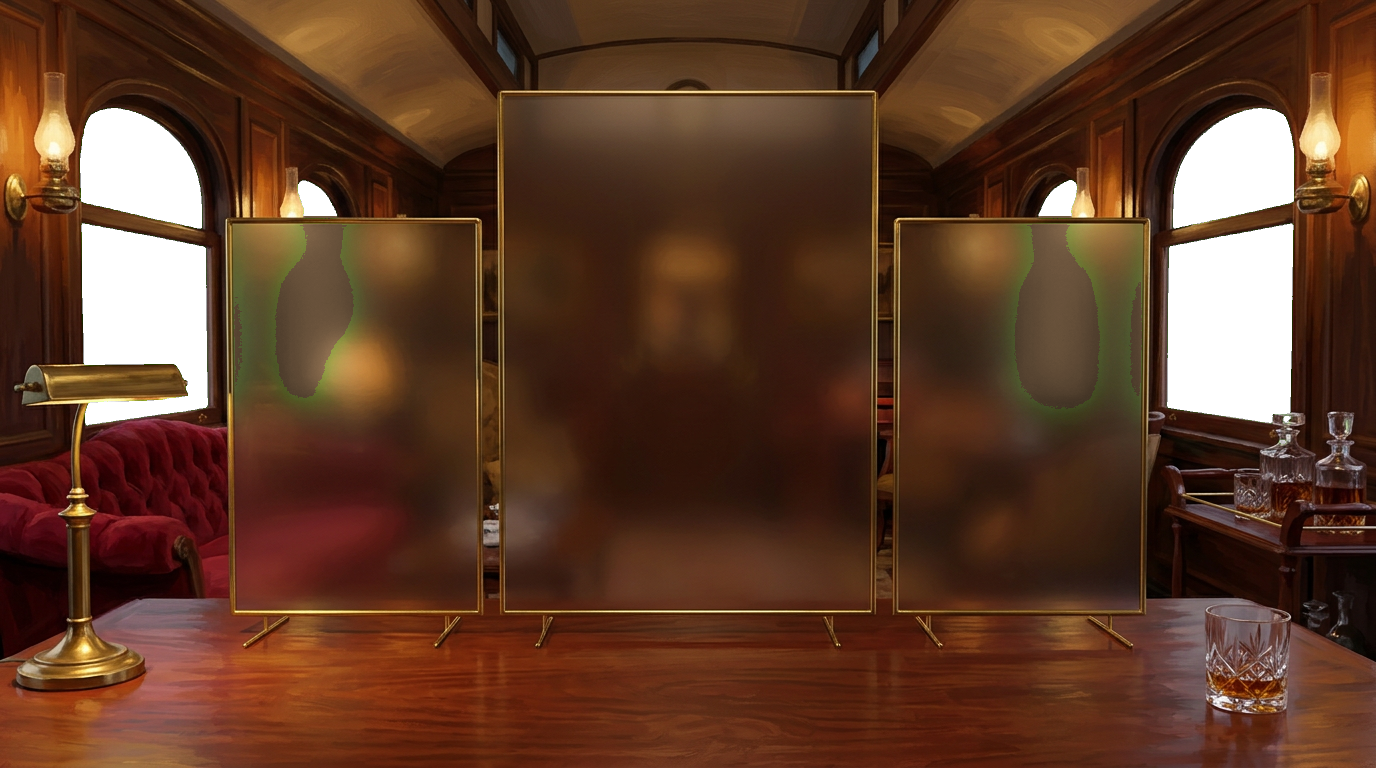
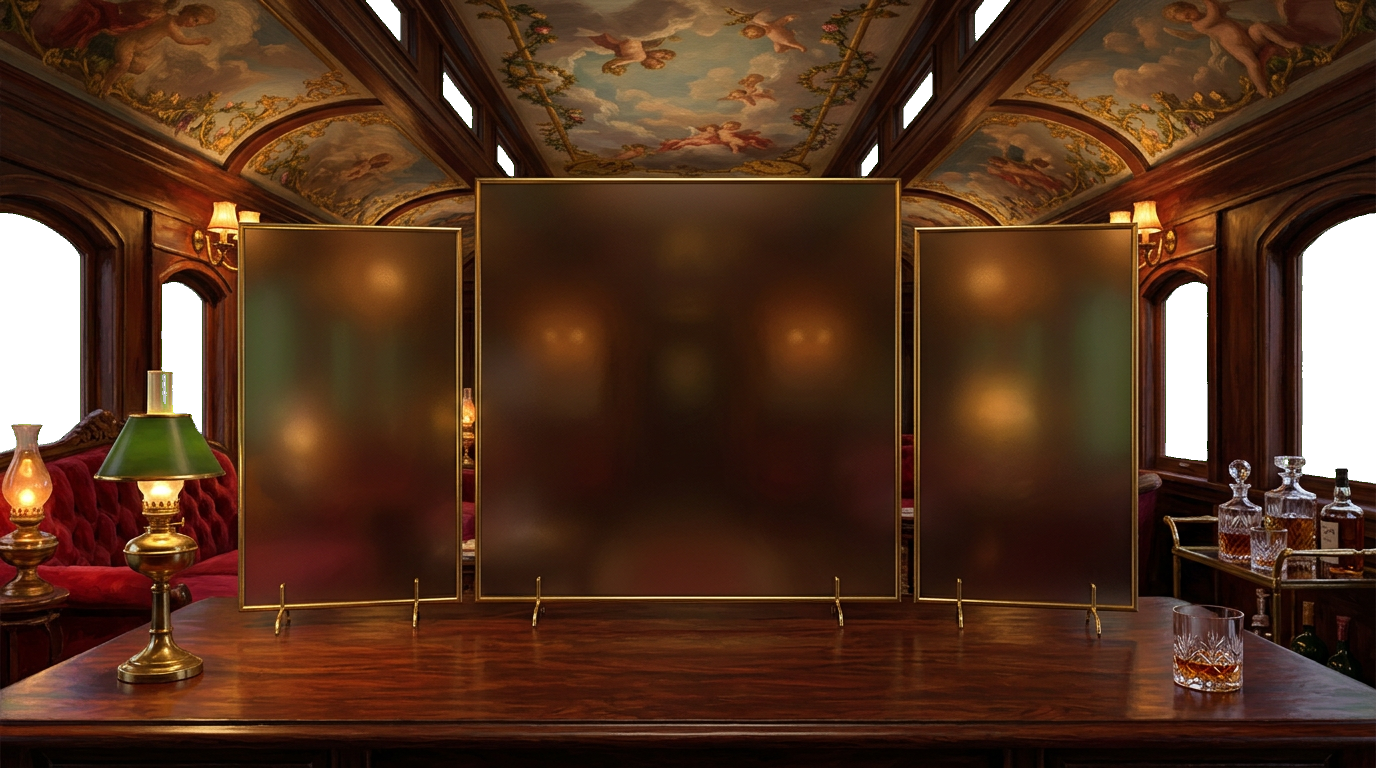
Office car: cherub-ceiling room, text laid on the painted panels, whole scene jolts together
Claude-Session: https://claude.ai/code/session_01F5UTtjsrcpMbk4dQhSkhZL

diff --git a/labs/pyle-office-preview.html b/labs/pyle-office-preview.html
@@ -5,15 +5,16 @@
 <meta name="viewport" content="width=device-width, initial-scale=1">
 <title>Pyle · Office car preview</title>
 <style>
-:root{--brass:#d4af5f;--ink:#f3e9d6;--dim:#b9a98c;--tint:.55;--blur:14px;--tilt:10deg}
+:root{--brass:#d9b56a;--ink:#f6ecd8;--dim:#c2b193;--tint:.38}
 *{box-sizing:border-box;margin:0;padding:0}
-html,body{height:100%;background:#120b08;color:var(--ink);font-family:"Iowan Old Style","Palatino Linotype",Palatino,Georgia,serif;overflow:hidden}
-#stage{position:relative;width:100vw;height:100vh;overflow:hidden}
+html,body{height:100%;background:#0b0705;color:var(--ink);font-family:"Iowan Old Style","Palatino Linotype",Palatino,Georgia,serif;overflow:hidden}
+#wrap{position:relative;width:100vw;height:100vh;display:grid;place-items:center}
+#stage{position:relative;aspect-ratio:1376/768;width:min(100vw,calc(100vh * 1376 / 768));container-type:inline-size;overflow:hidden}
 #world{position:absolute;inset:0;transform-origin:50% 60%}
 #world.bump{animation:bump .45s ease-out}
 #world.bump2{animation:bump2 .6s ease-out}
-@keyframes bump{0%{transform:translateY(0)}25%{transform:translateY(-3px) rotate(.12deg)}55%{transform:translateY(2px)}100%{transform:translateY(0)}}
-@keyframes bump2{0%{transform:translateY(0)}20%{transform:translateY(2px) rotate(-.1deg)}50%{transform:translateY(-2px)}80%{transform:translateY(1px)}100%{transform:translateY(0)}}
+@keyframes bump{0%{transform:translateY(0)}25%{transform:translateY(-.4cqw) rotate(.12deg)}55%{transform:translateY(.25cqw)}100%{transform:translateY(0)}}
+@keyframes bump2{0%{transform:translateY(0)}20%{transform:translateY(.25cqw) rotate(-.1deg)}50%{transform:translateY(-.3cqw)}80%{transform:translateY(.12cqw)}100%{transform:translateY(0)}}
 #sky{position:absolute;inset:0;background:linear-gradient(#1a1230 0%,#4a2a3c 35%,#b4562e 58%,#e8a157 70%,#3b2416 100%)}
 #sky.night{background:linear-gradient(#05060f 0%,#0d1230 45%,#1c2a4d 70%,#0a0a12 100%)}
 #sky.day{background:linear-gradient(#5f8fc9 0%,#a9c8e8 50%,#e9d8b4 72%,#8d7a52 100%)}
@@ -22,36 +23,26 @@ html,body{height:100%;background:#120b08;color:var(--ink);font-family:"Iowan Old
 #mid{animation:slide 32s linear infinite}
 #near{animation:slide 14s linear infinite}
 @keyframes slide{from{transform:translateX(0)}to{transform:translateX(-25%)}}
-#room{position:absolute;inset:0;background:url("img/pyle/office-car.webp") center/cover no-repeat}
-#desk{position:absolute;left:0;right:0;top:0;bottom:0;pointer-events:none}
-.panel{position:absolute;background:rgba(26,16,10,var(--tint));backdrop-filter:blur(var(--blur)) saturate(.9);-webkit-backdrop-filter:blur(var(--blur)) saturate(.9);border:1px solid rgba(212,175,95,.65);border-radius:5px;box-shadow:0 0 0 3px rgba(60,40,18,.5),0 18px 40px rgba(0,0,0,.45),inset 0 0 40px rgba(255,200,120,.06);padding:18px 22px;color:var(--ink);transform-style:preserve-3d}
-.panel{border-radius:3px;border-width:2px;box-shadow:0 0 0 1px rgba(90,62,24,.7),0 22px 30px -10px rgba(0,0,0,.6),inset 0 0 40px rgba(255,200,120,.06)}
-.panel::before,.panel::after{content:"";position:absolute;bottom:-15px;width:2px;height:15px;background:linear-gradient(#f0d48a,#a67c35);box-shadow:1px 0 2px rgba(0,0,0,.5)}
-.panel::before{left:14%}
-.panel::after{right:14%}
-.foot{position:absolute;bottom:-17px;height:2.5px;background:linear-gradient(90deg,rgba(240,212,138,0),#f0d48a 25%,#f0d48a 75%,rgba(240,212,138,0));box-shadow:0 2px 3px rgba(0,0,0,.6)}
-.foot.l{left:6%;width:16%}.foot.r{right:6%;width:16%}
-.refl{position:absolute;left:3%;right:3%;top:100%;height:16%;margin-top:16px;background:linear-gradient(rgba(214,180,120,.16),rgba(214,180,120,0));filter:blur(6px);transform:scaleY(-1);pointer-events:none}
-#main{left:30%;width:40%;top:11%;height:58%}
-#left{left:5.5%;width:22%;top:21%;height:48%;transform:perspective(1400px) rotateY(var(--tilt));transform-origin:right bottom}
-#right{right:5.5%;width:22%;top:21%;height:48%;transform:perspective(1400px) rotateY(calc(var(--tilt) * -1));transform-origin:left bottom}
-.panel>.hd{font-family:ui-monospace,Menlo,monospace;font-size:11px;letter-spacing:.2em;text-transform:uppercase;color:var(--brass);border-bottom:1px solid rgba(212,175,95,.35);padding-bottom:8px;margin-bottom:12px;display:flex;justify-content:space-between}
-.panel .code{font-family:ui-monospace,Menlo,monospace;font-size:15.5px;line-height:1.6;white-space:pre;color:#f7efe0}
-.k{color:#e9b25c}.s{color:#9fd0a2}.c{color:#8f8470;font-style:italic}.n{color:#8fc4e8}
-.brief{font-size:15px;line-height:1.55;color:var(--ink)}
+#room{position:absolute;inset:0;background:url("img/pyle/office-car.webp") center/100% 100% no-repeat}
+.screen{position:absolute;background:rgba(22,13,8,var(--tint));padding:1.3cqw 1.5cqw;color:var(--ink);overflow:hidden}
+#left{left:17.4%;top:29.5%;width:16.3%;height:49.8%}
+#main{left:34.7%;top:23%;width:30.8%;height:55.4%}
+#right{left:66.5%;top:29.5%;width:16.3%;height:49.8%}
+.hd{font-family:ui-monospace,Menlo,monospace;font-size:.78cqw;letter-spacing:.2em;text-transform:uppercase;color:var(--brass);border-bottom:1px solid rgba(217,181,106,.4);padding-bottom:.5cqw;margin-bottom:.9cqw;display:flex;justify-content:space-between}
+.code{font-family:ui-monospace,Menlo,monospace;font-size:1.02cqw;line-height:1.6;white-space:pre;color:#faf2e3;text-shadow:0 1px 2px rgba(0,0,0,.6)}
+.k{color:#eab862}.s{color:#a8d8a9}.c{color:#9a8f7a;font-style:italic}.n{color:#9ccbee}
+.brief{font-size:1.02cqw;line-height:1.55;text-shadow:0 1px 2px rgba(0,0,0,.6)}
 .brief b{color:var(--brass);font-weight:600}
-.aid{font-family:ui-monospace,Menlo,monospace;font-size:12.5px;line-height:1.7;color:var(--dim);white-space:pre}
-#ctl{position:absolute;left:50%;bottom:14px;transform:translateX(-50%);display:flex;gap:14px;align-items:center;background:rgba(14,8,5,.7);border:1px solid rgba(212,175,95,.4);border-radius:6px;padding:8px 14px;font-family:ui-monospace,Menlo,monospace;font-size:11px;letter-spacing:.14em;text-transform:uppercase;color:var(--brass);z-index:5}
-#ctl label{display:flex;gap:8px;align-items:center}
-#ctl input[type=range]{width:90px;accent-color:#d4af5f}
-#ctl button{background:none;border:1px solid rgba(212,175,95,.5);color:var(--brass);padding:4px 10px;border-radius:4px;font:inherit;cursor:pointer;letter-spacing:.14em}
-#ctl button.on{background:rgba(212,175,95,.18)}
-#ice{position:absolute;right:11.5%;top:46%;width:8%;height:14%;transform-origin:50% 100%}
-#ice.wig{animation:wig .7s ease-out}
-@keyframes wig{0%{transform:rotate(0)}20%{transform:rotate(-1.6deg)}45%{transform:rotate(1.2deg)}70%{transform:rotate(-.6deg)}100%{transform:rotate(0)}}
+.aid{font-family:ui-monospace,Menlo,monospace;font-size:.86cqw;line-height:1.7;color:var(--dim);white-space:pre;text-shadow:0 1px 2px rgba(0,0,0,.6)}
+#ctl{position:absolute;left:50%;bottom:1.2cqw;transform:translateX(-50%);display:flex;gap:1cqw;align-items:center;background:rgba(14,8,5,.75);border:1px solid rgba(217,181,106,.4);border-radius:5px;padding:.5cqw 1cqw;font-family:ui-monospace,Menlo,monospace;font-size:.75cqw;letter-spacing:.14em;text-transform:uppercase;color:var(--brass);z-index:5}
+#ctl label{display:flex;gap:.5cqw;align-items:center}
+#ctl input[type=range]{width:6cqw;accent-color:#d9b56a}
+#ctl button{background:none;border:1px solid rgba(217,181,106,.5);color:var(--brass);padding:.3cqw .7cqw;border-radius:4px;font:inherit;cursor:pointer;letter-spacing:.14em}
+#ctl button.on{background:rgba(217,181,106,.18)}
 </style>
 </head>
 <body>
+<div id="wrap">
 <div id="stage">
   <div id="world">
     <div id="sky"></div>
@@ -59,15 +50,12 @@ html,body{height:100%;background:#120b08;color:var(--ink);font-family:"Iowan Old
     <div class="land" id="mid"></div>
     <div class="land" id="near"></div>
     <div id="room"></div>
-    <div id="ice"></div>
-  </div>
-  <div id="desk">
-    <div class="panel" id="left"><i class="foot l"></i><i class="foot r"></i><div class="refl"></div>
+    <div class="screen" id="left">
       <div class="hd"><span>Brief</span><span>telegram 04</span></div>
       <div class="brief">The clerk needs a <b>menu board</b> for the dining car. Print the price of cake, add dinner at 30, then list every dish with its price.<br><br>When there is no coffee tonight, say so.</div>
     </div>
-    <div class="panel" id="main"><i class="foot l"></i><i class="foot r"></i><div class="refl"></div>
-      <div class="hd"><span>menu_board.py</span><span>office car · Pyle</span></div>
+    <div class="screen" id="main">
+      <div class="hd"><span>menu_board.py</span><span>office car</span></div>
       <div class="code"><span class="c">"""Menu board for the dining car."""</span>
 
 menu = {<span class="s">"tea"</span>: <span class="n">4</span>, <span class="s">"soup"</span>: <span class="n">9</span>, <span class="s">"cake"</span>: <span class="n">12</span>}
@@ -81,7 +69,7 @@ menu[<span class="s">"dinner"</span>] = <span class="n">30</span>
 <span class="k">if</span> <span class="s">"coffee"</span> <span class="k">not in</span> menu:
     <span class="k">print</span>(<span class="s">"No coffee tonight"</span>)<span style="opacity:.7">▍</span></div>
     </div>
-    <div class="panel" id="right"><i class="foot l"></i><i class="foot r"></i><div class="refl"></div>
+    <div class="screen" id="right">
       <div class="hd"><span>Visual aid</span><span>dict</span></div>
       <div class="aid">menu
 ┌──────────┬──────┐
@@ -99,11 +87,11 @@ menu["cake"]  → 12
     </div>
   </div>
   <div id="ctl">
-    <label>Glass <input type="range" id="tint" min="20" max="90" value="55"></label>
-    <label>Tilt <input type="range" id="tilt" min="0" max="25" value="10"></label>
+    <label>Glass <input type="range" id="tint" min="0" max="80" value="38"></label>
     <button id="t-dusk" class="on">Dusk</button><button id="t-night">Night</button><button id="t-day">Day</button>
     <button id="snd">Sound off</button>
   </div>
+</div>
 </div>
 <script>
 const $=id=>document.getElementById(id);
@@ -127,17 +115,16 @@ function paint(theme){
 paint('dusk');
 ['dusk','night','day'].forEach(t=>$('t-'+t).onclick=()=>paint(t));
 $('tint').oninput=e=>document.documentElement.style.setProperty('--tint',e.target.value/100);
-$('tilt').oninput=e=>document.documentElement.style.setProperty('--tilt',e.target.value+'deg');
 
-let ac=null,gain=null,on=false;
+let ac=null,on=false;
 function startSound(){
   ac=new (window.AudioContext||window.webkitAudioContext)();
   const len=ac.sampleRate*2,buf=ac.createBuffer(1,len,ac.sampleRate),d=buf.getChannelData(0);
   for(let i=0;i<len;i++)d[i]=(Math.random()*2-1)*.5;
   const src=ac.createBufferSource();src.buffer=buf;src.loop=true;
   const lp=ac.createBiquadFilter();lp.type='lowpass';lp.frequency.value=320;
-  gain=ac.createGain();gain.gain.value=.12;
-  src.connect(lp).connect(gain).connect(ac.destination);src.start();
+  const g=ac.createGain();g.gain.value=.12;
+  src.connect(lp).connect(g).connect(ac.destination);src.start();
 }
 function clack(strong){
   if(!on||!ac)return;
@@ -157,7 +144,6 @@ function jolt(){
   const w=$('world'),strong=Math.random()<.3;
   w.classList.remove('bump','bump2');void w.offsetWidth;
   w.classList.add(strong?'bump2':'bump');
-  if(strong){$('ice').classList.remove('wig');void $('ice').offsetWidth;$('ice').classList.add('wig')}
   clack(strong);
   setTimeout(jolt,2200+Math.random()*5000);
 }
